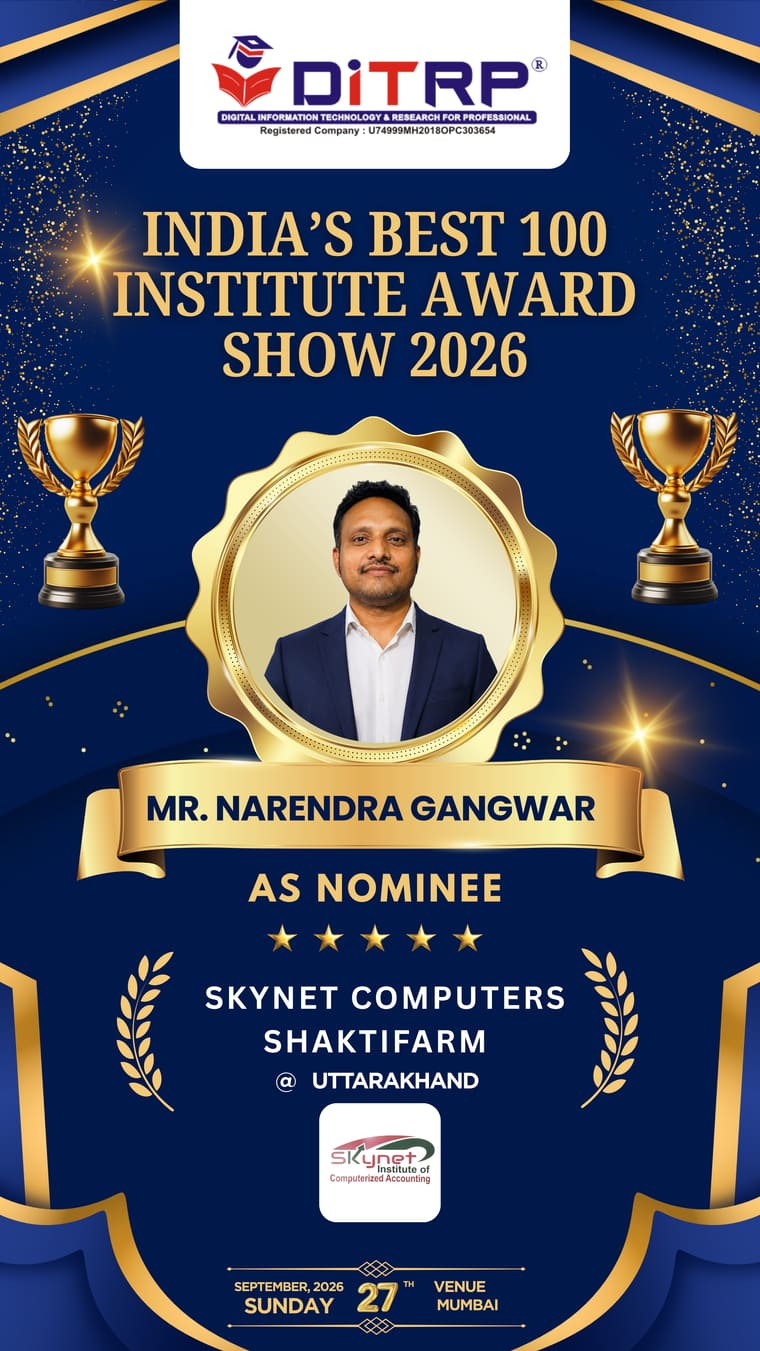
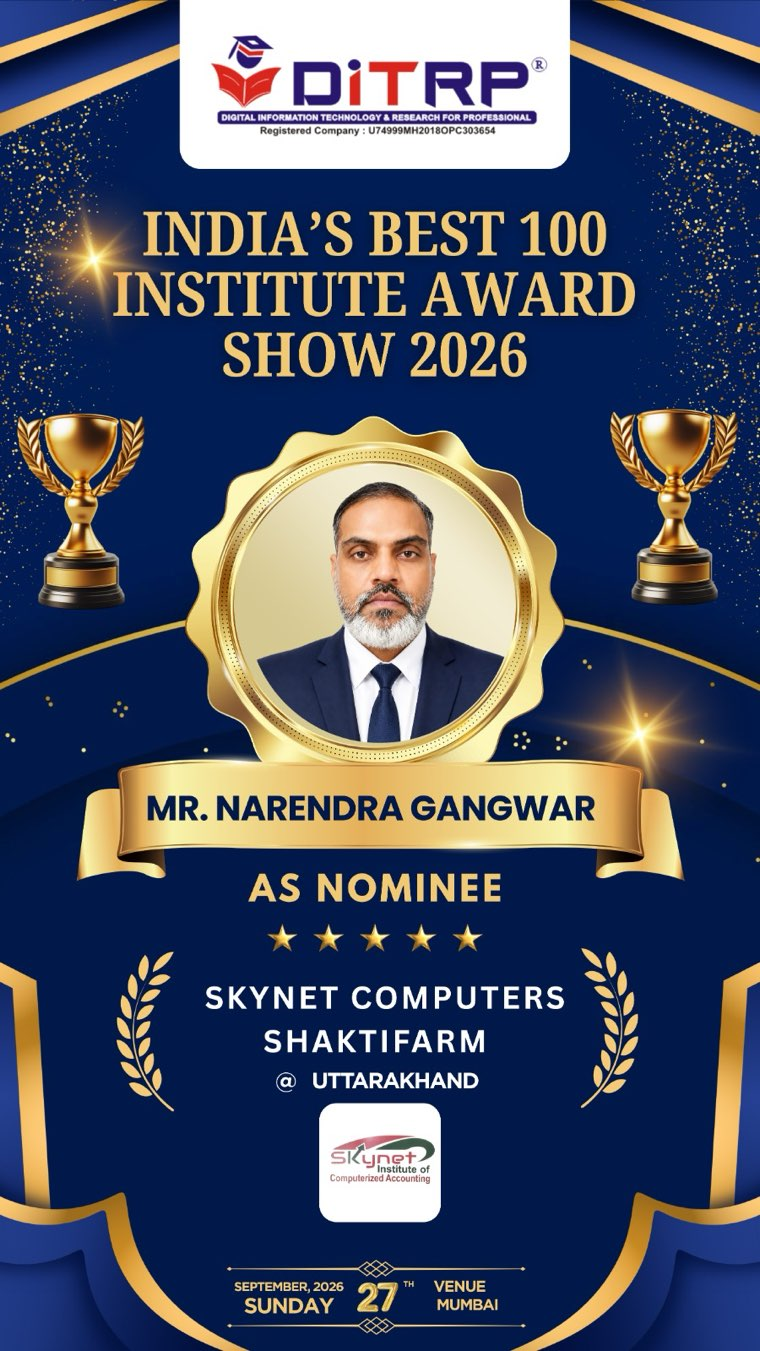
Add two nominees (now 98) and refresh the Skynet card

diff --git a/src/lib/nominees-2026.ts b/src/lib/nominees-2026.ts
@@ -1,4 +1,4 @@
-/** Auto-generated from public/awards/nominees-2026/. 96 nominee
+/** Auto-generated from public/awards/nominees-2026/. 98 nominee
  *  cards for the 2026 show — the printed poster cards, shown as-is. */
 
 export type NomineeCardImage = { slug: string; name: string; src: string };
@@ -73,6 +73,11 @@ export const NOMINEE_CARDS: readonly NomineeCardImage[] = [
     "slug": "cadd-guru-institute",
     "name": "CADD GURU INSTITUTE",
     "src": "/awards/nominees-2026/cadd-guru-institute.jpg"
+  },
+  {
+    "slug": "career-mission-computer-academy",
+    "name": "CAREER MISSION COMPUTER ACADEMY",
+    "src": "/awards/nominees-2026/career-mission-computer-academy.jpg"
   },
   {
     "slug": "climax-computer-amba",
@@ -268,6 +273,11 @@ export const NOMINEE_CARDS: readonly NomineeCardImage[] = [
     "slug": "modern-computer-education",
     "name": "MODERN COMPUTER EDUCATION",
     "src": "/awards/nominees-2026/modern-computer-education.jpg"
+  },
+  {
+    "slug": "nagnechi-computer-education-center",
+    "name": "NAGNECHI COMPUTER EDUCATION CENTER",
+    "src": "/awards/nominees-2026/nagnechi-computer-education-center.jpg"
   },
   {
     "slug": "nitya-skill-development-centre",
